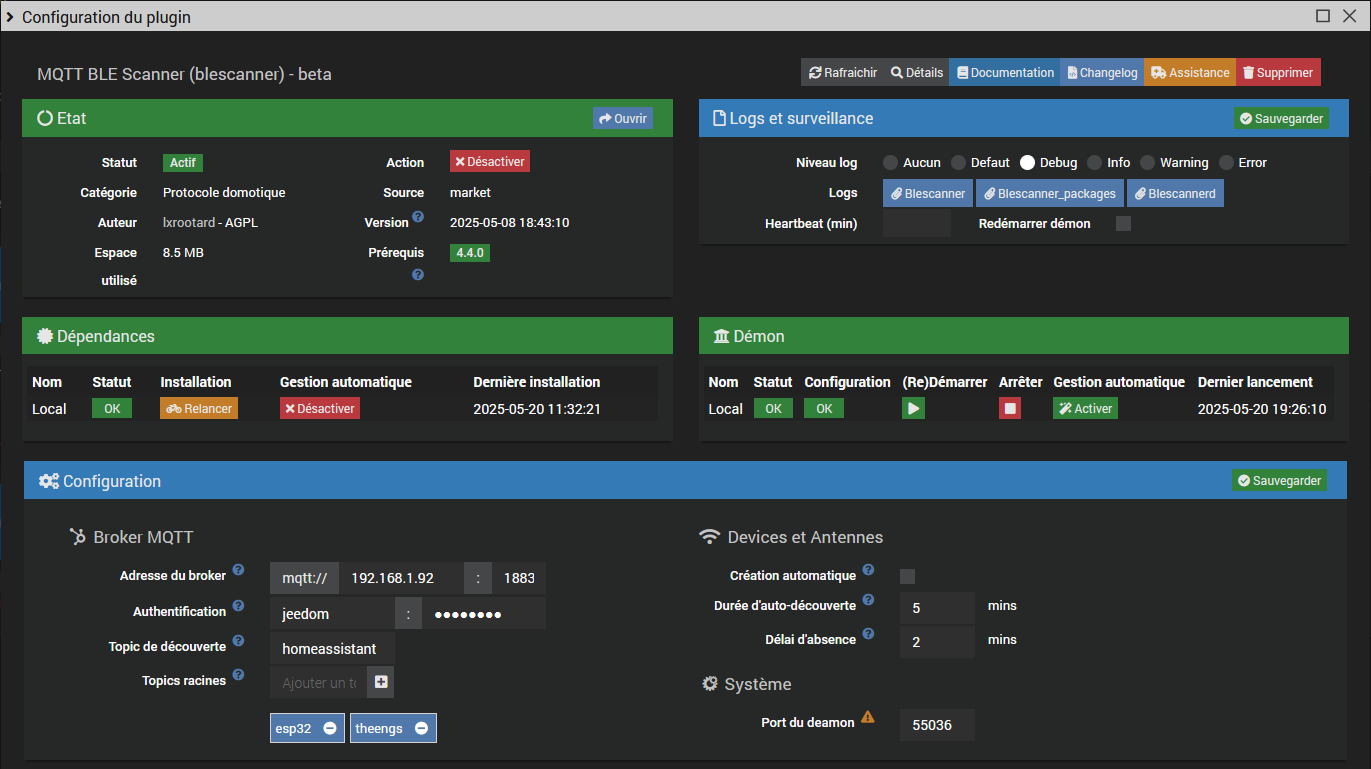
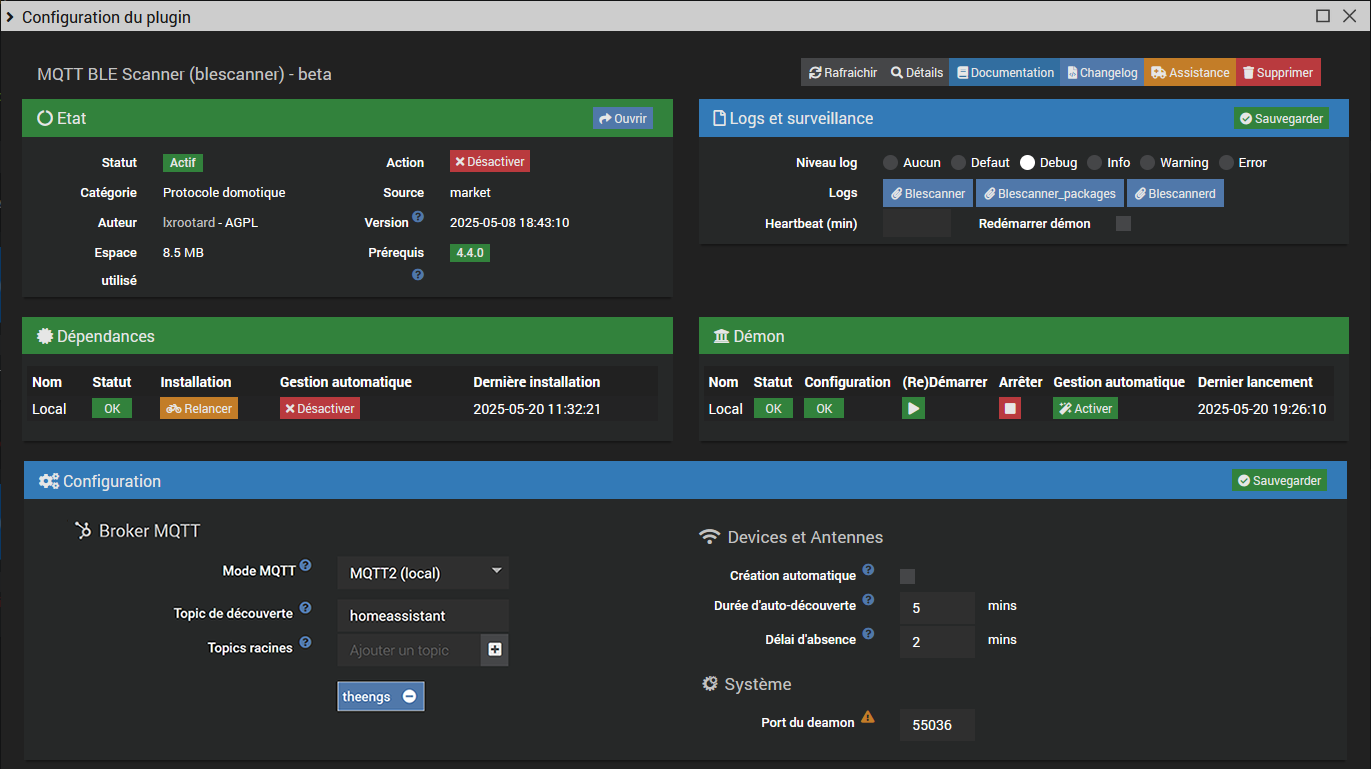
v0.8

Changed region(s): [[0.0306, 0.6554, 0.3982, 0.9675]]

diff --git a/docs/fr_FR/index.html b/docs/fr_FR/index.html
@@ -33,17 +33,31 @@ La structure doit respecter le schéma suivant:
 ...
 /topic_de_découverte
 </code>
-ex. ici un seul root</em>topic <code>theengs</code> avec 2 antennes <code>tgw_local</code>et <code>tgw_remote</code>:</p>
+ex. ici un seul root</em>topic <code>theengs</code> avec 2 antennes <code>tgw_local</code>et <code>tgw_remote</code>.
+<br> <code>LWT</code> et <code>BTtoMQTT</code> doivent être directement sous chaque antenne:</p>
 
 <p><img src="../images/mqttexplorer.png" alt="#mqttexplorer" title="" /></p>
 
 <h3>Configuration</h3>
 
-<h4>Broker MQTT</h4>
+<h4>Broker MQTT local (MQTT2)</h4>
+
+<p>Par défaut dans ce mode le plugin utilise la configuration MQTT2 (si installé).<br>
+Le démarrage du plugin MQTT2 est automatique.
+<img src="../images/blescanner1.png" alt="config" title="" /></p>
+
+<h4>Broker MQTT externe</h4>
+
+<p>Dans ce mode le démarrage du broker MQTT n'est pas géré par le plugin.
+<br>Il est nécessaire de renseigner les informations de connexion MQTT.
+- Adresse du broker: défaut <code>mqtt://localhost:1883</code>
+- Authentification: utilisateur et mot de passe</p>
+
+<p><img src="../images/blescanner12.png" alt="config" title="" /></p>
+
+<h4>Paramètres MQTT communs</h4>
 
 <ul>
-<li>Adresse du broker: défaut <code>mqtt://localhost:1883</code></li>
-<li>Authentification: utilisateur et mot de passe</li>
 <li>Topic de découverte: topic d'auto-découverte des devices compatible Home Assistant. défaut: <code>homeassistant</code></li>
 <li>Topics racines des équipements: <code>root_topics</code> surveillés par le plugin (au moins un). Les sous-topics ne sont pas acceptés.</li>
 </ul>
@@ -61,8 +75,6 @@ ex. ici un seul root</em>topic <code>theengs</code> avec 2 antennes <code>tgw_lo
 <ul>
 <li>Port du deamon: défault <code>55036</code>, ne pas changer sauf conflit</li>
 </ul>
-
-<p><img src="../images/blescanner1.png" alt="config" title="" /></p>
 
 <h3>Auto-découverte</h3>
 

diff --git a/docs/en_US/index.html b/docs/en_US/index.html
@@ -33,17 +33,34 @@ The expected structure is the following:
 ...
 /topic_de_découverte
 </code>
-Here's an example of a single root</em>topic <code>theengs</code> with 2 antennas <code>tgw_local</code>and <code>tgw_remote</code>:</p>
+Here's an example of a single root</em>topic <code>theengs</code> with 2 antennas <code>tgw_local</code>and <code>tgw_remote</code>.
+<br> <code>LWT</code> and <code>BTtoMQTT</code> must appear under each antenna:</p>
 
 <p><img src="../images/mqttexplorer.png" alt="#mqttexplorer" title="" /></p>
 
 <h3>Configuration</h3>
 
-<h4>MQTT Broker</h4>
+<h4>Local MQTT broker (MQTT2)</h4>
+
+<p>Using this mode the plugin uses the <code>MQTT2</code> configuration (if installed) <br>
+The <code>MQTT2</code> plugin startup is automatic.
+<img src="../images/blescanner1.png" alt="config" title="" /></p>
+
+<h4>External MQTT Broker</h4>
+
+<p>Using this mode the MQTT broker is not managed by the plugin.
+<br>It's mandatory to setup the MQTT connexion settings. </p>
 
 <ul>
 <li>Broker URL: default <code>mqtt://localhost:1883</code></li>
 <li>Authentication: username and password</li>
+</ul>
+
+<p><img src="../images/blescanner12.png" alt="config" title="" /></p>
+
+<h4>Common MQTT parameters</h4>
+
+<ul>
 <li>Discovery topic: Home Assistant compatible topic. Default: <code>homeassistant</code></li>
 <li>Devices root topics: topics monitored by the plugin (at least one required). Sub-topics are not allowed.</li>
 </ul>

diff --git a/core/js/config.js b/core/js/config.js
@@ -81,3 +81,13 @@ $('.configKey[data-l1key="ble_root_topics"]').change(function() {
 	initializeTopics();
     initDone = true;
 });
+
+
+$('.configKey[data-l1key=mqttMode]').off('change').on('change', function() {
+    $('.mqttMode').hide()
+    if ((! $(this).value()) || ($(this).value() == 'local'))
+	$('.remote').hide()
+    else
+	$('.remote').show()
+})
+

diff --git a/README.html b/README.html
@@ -14,6 +14,8 @@
 <h2>ChangeLog</h2>
 
 <ul>
+<li>v0.8 <a href="https://github.com/lxrootard">lxrootard</a>
+<br> - added compatibility mode for MQTT2 plugin</li>
 <li>v0.7 <a href="https://github.com/lxrootard">lxrootard</a>
 <br> - fix battery status in equipments view
 <br> - dependancy fix for Jeedom 4.5</li>

diff --git a/core/class/blescanner.class.php b/core/class/blescanner.class.php
@@ -49,6 +49,9 @@ class blescanner extends eqLogic {
     if (empty(config::byKey('auto_create',__CLASS__)))
 	config::save('auto_create',false,__CLASS__);
 
+    if (empty(config::byKey('mqttMode',__CLASS__)))
+        config::save('mqttMode','local',__CLASS__);
+
     $mqttSettings = config::byKey('broker',__CLASS__,array());
     if (empty($mqttSettings)) {
 	$mqttSettings['port'] = '1883';
@@ -167,6 +170,8 @@ class blescanner extends eqLogic {
   }
 
   public static function initSettings() {
+    self::manageMqtt2();
+
     $t1 = intval(config::byKey('disco_duration',__CLASS__));
     log::add(__CLASS__, 'info', 'timeout auto-découverte: ' . $t1 . ' mins');
     if (! is_int($t1) || ($t1 < 1))
@@ -886,6 +891,31 @@ class blescanner extends eqLogic {
 
     // log::add(__CLASS__, 'debug', '['.__FUNCTION__ . '] state= ' . $rc['state']);
     return $rc;
+  }
+
+  public static function manageMqtt2() {
+    $mode = config::byKey('mqttMode',__CLASS__);
+    log::add(__CLASS__, 'debug', '['.__FUNCTION__ . '] mode: ' . $mode);
+    if ($mode != 'local')
+	return;
+
+    $mqtt2 = plugin::byId('mqtt2');
+    if ((! $mqtt2) || (!$mqtt2->isActive()))
+        throw new Exception("Le plugin MQTT2 n'est pas installé ou pas activé");
+    if (class_exists('mqtt2')) {
+	$mqtt2Infos = mqtt2::getFormatedInfos();
+	// log::add(__CLASS__, 'debug', '['.__FUNCTION__ . '] config' . json_encode($mqtt2Infos));
+	$mqttSettings = config::byKey('broker',__CLASS__,array());
+	$mqttSettings['host'] = $mqtt2Infos['ip'];
+	$mqttSettings['port'] = $mqtt2Infos['port'];
+	$mqttSettings['user'] = $mqtt2Infos['user'];
+	$mqttSettings['passwd'] = $mqtt2Infos['password'];
+	config::save('broker',json_encode($mqttSettings), __CLASS__);
+	if (mqtt2::deamon_info()['state'] != 'ok') {
+	     log::add(__CLASS__, 'debug', '['.__FUNCTION__ . '] Démarrage du démon MQTT2');
+	     mqtt2::deamon_start();
+	}
+    }
   }
 
   public static function deamon_start() {

diff --git a/plugin_info/configuration.php b/plugin_info/configuration.php
@@ -58,6 +58,17 @@ if (!isConnect()) {
      <div class="col-md-6">
 	<legend><i class="fab fa-hubspot"></i>&nbsp;{{Broker MQTT}}</legend>
 	<div class="form-group">
+	   <label class="col-lg-4 control-label">{{Mode MQTT}}
+		<sup><i class="fas fa-question-circle tooltips" title="{{Mode du deamon MQTT. défaut: plugin MQTT Manager (MQTT2)}}"></i></sup>
+	   </label>
+	   <div class="col-lg-3">
+		<select class="configKey form-control" data-l1key="mqttMode">
+		    <option value="local" selected>{{MQTT2 (local)}}</option>
+		    <option value="remote">{{Externe}}</option>
+		</select>
+	   </div>
+	</div>
+	<div class="form-group mqttMode remote">
 	   <label class="col-lg-4 control-label">{{Adresse du broker}}&nbsp;
 	     <sup><i class="fa fa-question-circle tooltips" title="{{URL du service MQTT}}"></i></sup>
 	   </label>
@@ -70,7 +81,7 @@ if (!isConnect()) {
 		type="number" min="1" max="65535" title="{{Port  du Broker. Défaut: 1883}}"/>
 	   </div>
 	</div>
-	<div class="form-group">
+	<div class="form-group mqttMode remote">
 	   <label class="col-lg-4 control-label">{{Authentification}}&nbsp;
 	     <sup><i class="fa fa-question-circle tooltips" title="{{Utilisateur et mot de passe}}"></i></sup>
 	   </label>
@@ -80,6 +91,7 @@ if (!isConnect()) {
              <input class="configKey form-control" data-l1key="broker" data-l2key="passwd" type="password" placeholder="mot de passe mqtt"/>
 	   </div>
 	</div>
+	<p>
 	<div class="form-group">
 	   <label class="col-lg-4 control-label">{{Topic de découverte}}&nbsp;
 	     <sup><i class="fas fa-question-circle tooltips" title="{{Topic d'auto-découverte. Défaut: homeassistant}}"></i></sup>

diff --git a/docs/fr_FR/index.md b/docs/fr_FR/index.md
@@ -30,15 +30,30 @@ La structure doit respecter le schéma suivant:
 ...
 /topic_de_découverte
 ```
-ex. ici un seul root_topic `theengs` avec 2 antennes `tgw_local`et `tgw_remote`:
+ex. ici un seul root_topic `theengs` avec 2 antennes `tgw_local`et `tgw_remote`.
+<br> `LWT` et `BTtoMQTT` doivent être directement sous chaque antenne:
 
 ![#mqttexplorer](../images/mqttexplorer.png)
 
+
+
 ### Configuration
 
-#### Broker MQTT
+#### Broker MQTT local (MQTT2)
+Par défaut dans ce mode le plugin utilise la configuration MQTT2 (si installé).<br>
+Le démarrage du plugin MQTT2 est automatique.
+![config](../images/blescanner1.png)
+
+#### Broker MQTT externe
+Dans ce mode le démarrage du broker MQTT n'est pas géré par le plugin.
+<br>Il est nécessaire de renseigner les informations de connexion MQTT.
 - Adresse du broker: défaut `mqtt://localhost:1883`
 - Authentification: utilisateur et mot de passe
+
+
+![config](../images/blescanner12.png)
+
+#### Paramètres MQTT communs
 - Topic de découverte: topic d'auto-découverte des devices compatible Home Assistant. défaut: `homeassistant`
 - Topics racines des équipements: `root_topics` surveillés par le plugin (au moins un). Les sous-topics ne sont pas acceptés.
 
@@ -50,8 +65,6 @@ ex. ici un seul root_topic `theengs` avec 2 antennes `tgw_local`et `tgw_remote`:
 #### Système
 
 - Port du deamon: défault `55036`, ne pas changer sauf conflit
-
-![config](../images/blescanner1.png)
 
 ### Auto-découverte
 

diff --git a/docs/en_US/index.md b/docs/en_US/index.md
@@ -30,15 +30,29 @@ The expected structure is the following:
 ...
 /topic_de_découverte
 ```
-Here's an example of a single root_topic `theengs` with 2 antennas `tgw_local`and `tgw_remote`:
+Here's an example of a single root_topic `theengs` with 2 antennas `tgw_local`and `tgw_remote`.
+<br> `LWT` and `BTtoMQTT` must appear under each antenna:
 
 ![#mqttexplorer](../images/mqttexplorer.png)
 
 ### Configuration
 
-####  MQTT Broker
+#### Local MQTT broker (MQTT2)
+Using this mode the plugin uses the `MQTT2` configuration (if installed) <br>
+The `MQTT2` plugin startup is automatic.
+![config](../images/blescanner1.png)
+
+#### External MQTT Broker
+Using this mode the MQTT broker is not managed by the plugin.
+<br>It's mandatory to setup the MQTT connexion settings. 
+
 - Broker URL: default `mqtt://localhost:1883`
 - Authentication: username and password
+
+![config](../images/blescanner12.png)
+
+#### Common MQTT parameters
+
 - Discovery topic: Home Assistant compatible topic. Default: `homeassistant`
 - Devices root topics: topics monitored by the plugin (at least one required). Sub-topics are not allowed.
 

diff --git a/README.md b/README.md
@@ -10,6 +10,8 @@
 - User Documentation [(fr)](docs/fr_FR/index.md)
 
 ## ChangeLog
+* v0.8 [lxrootard](https://github.com/lxrootard)
+<br> - added compatibility mode for MQTT2 plugin
 * v0.7 [lxrootard](https://github.com/lxrootard)
 <br> - fix battery status in equipments view
 <br> - dependancy fix for Jeedom 4.5
